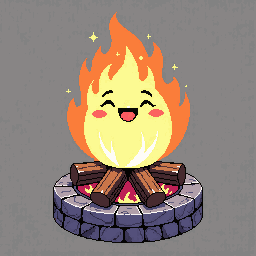
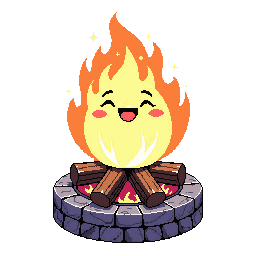
Social trail fixes: mask bonfire, bigger fire (384px), smaller wisps (48px), cropped bench

diff --git a/index.html b/index.html
@@ -371,12 +371,12 @@
       .library img{filter:drop-shadow(0 12px 12px rgba(0,0,0,.35))}
       .temple{left:740px;top:300px;width:240px}
       .temple img{filter:drop-shadow(0 8px 8px rgba(0,0,0,.35))}
-      .bonfire{position:absolute;left:448px;top:96px;width:256px;z-index:7;background:none;border:none;cursor:pointer;padding:0}
+      .bonfire{position:absolute;left:448px;top:96px;width:384px;z-index:7;background:none;border:none;cursor:pointer;padding:0}
       .bonfire img{display:block;width:100%;height:auto;image-rendering:pixelated;filter:drop-shadow(0 10px 10px rgba(0,0,0,.35))}
       .benches{position:absolute;left:401px;top:470px;width:350px;z-index:6;pointer-events:none;image-rendering:pixelated;opacity:.95}
-      .npc.wispO{left:400px;top:440px;width:84px;transform:translate(-50%,-92%)}
-      .npc.wispB{left:576px;top:418px;width:84px;transform:translate(-50%,-92%)}
-      .npc.wispG{left:752px;top:440px;width:84px;transform:translate(-50%,-92%)}
+      .npc.wispO{left:400px;top:440px;width:48px;transform:translate(-50%,-92%)}
+      .npc.wispB{left:576px;top:418px;width:48px;transform:translate(-50%,-92%)}
+      .npc.wispG{left:752px;top:440px;width:48px;transform:translate(-50%,-92%)}
       .spark-badge{
         position:absolute;left:50%;top:52%;transform:translate(-50%,-50%);
         width:34px;height:34px;border-radius:50%;display:grid;place-items:center;
@@ -533,7 +533,7 @@
                 <button type="button" class="site bonfire" id="bonfireEl" aria-label="Talk to the Bonfire Chief">
                   <img src="assets/bonfire-chief-256.png" alt="The Bonfire Chief — a great stone-ringed bonfire with a warm fatherly flame face, chief of the will-o'-wisps" />
                 </button>
-                <img class="benches" src="assets/benches-social-v1.png" alt="" aria-hidden="true" />
+                <img class="benches" src="assets/bench-social-v2.png" alt="" aria-hidden="true" />
                 <button type="button" class="npc wispO" id="wispOrangeEl" aria-label="Talk to the orange wisp">
                   <img src="assets/wisp-orange.png" alt="" />
                   <span class="wlabel pixel">EMBER</span>
